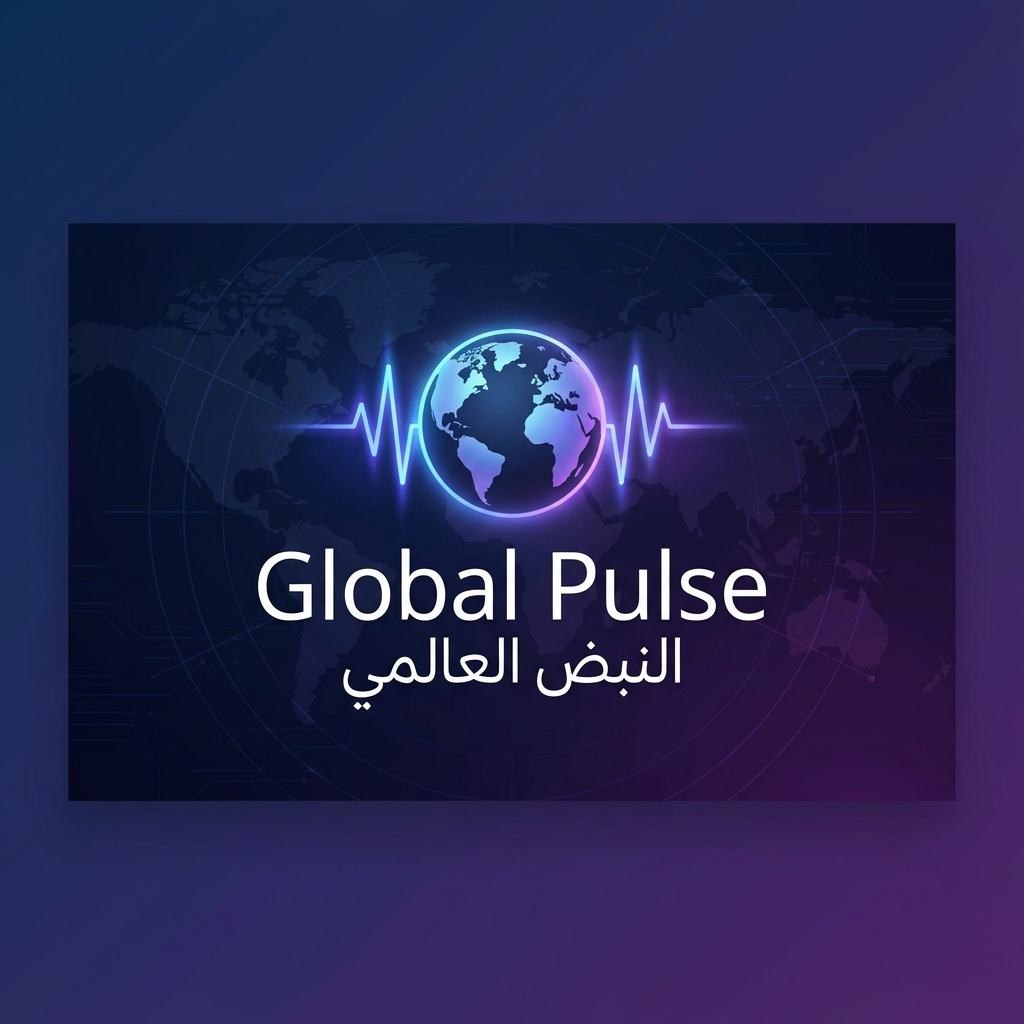
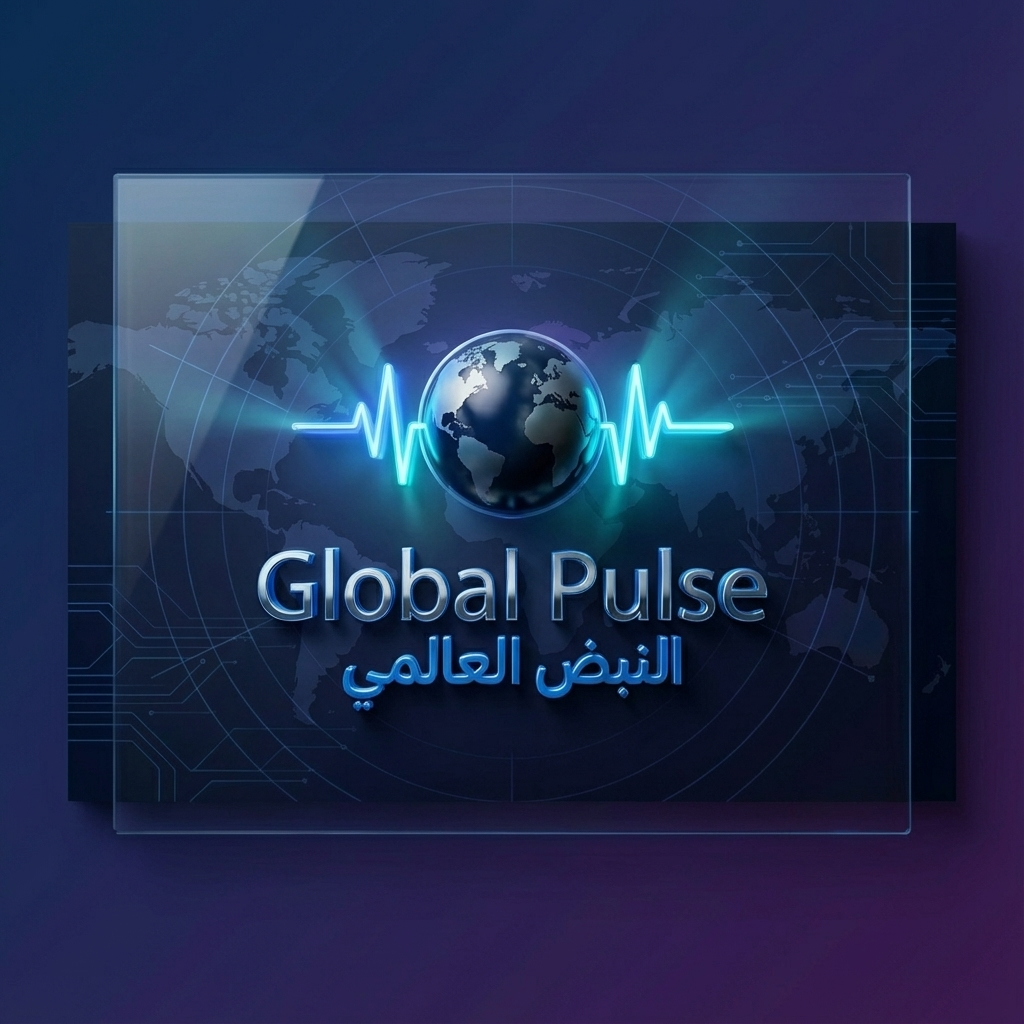
Update OG image with 3D design

diff --git a/index.html b/index.html
@@ -33,8 +33,9 @@
   <meta property="og:title" content="Global Pulse | النبض العالمي - أخبار عالمية حية" />
   <meta property="og:description"
     content="موقع إخباري عالمي يقدم آخر الأخبار من مصادر موثوقة. تابع أخبار السياسة والاقتصاد والرياضة والتكنولوجيا." />
-  <meta property="og:image"
-    content="https://images.unsplash.com/photo-1504711434969-e33886168f5c?auto=format&fit=crop&q=80&w=1200" />
+  <meta property="og:image" content="https://global-pulse-news.vercel.app/og-image.png" />
+  <meta property="og:image:width" content="1200" />
+  <meta property="og:image:height" content="630" />
   <meta property="og:site_name" content="Global Pulse | النبض العالمي" />
   <meta property="og:locale" content="ar_SA" />
   <meta property="og:locale:alternate" content="en_US" />
@@ -44,8 +45,7 @@
   <meta name="twitter:url" content="https://global-pulse-news.vercel.app" />
   <meta name="twitter:title" content="Global Pulse | النبض العالمي" />
   <meta name="twitter:description" content="موقع إخباري عالمي - Global news aggregator with live updates" />
-  <meta name="twitter:image"
-    content="https://images.unsplash.com/photo-1504711434969-e33886168f5c?auto=format&fit=crop&q=80&w=1200" />
+  <meta name="twitter:image" content="https://global-pulse-news.vercel.app/og-image.png" />
 
   <!-- Theme Color -->
   <meta name="theme-color" content="#3b82f6" />
